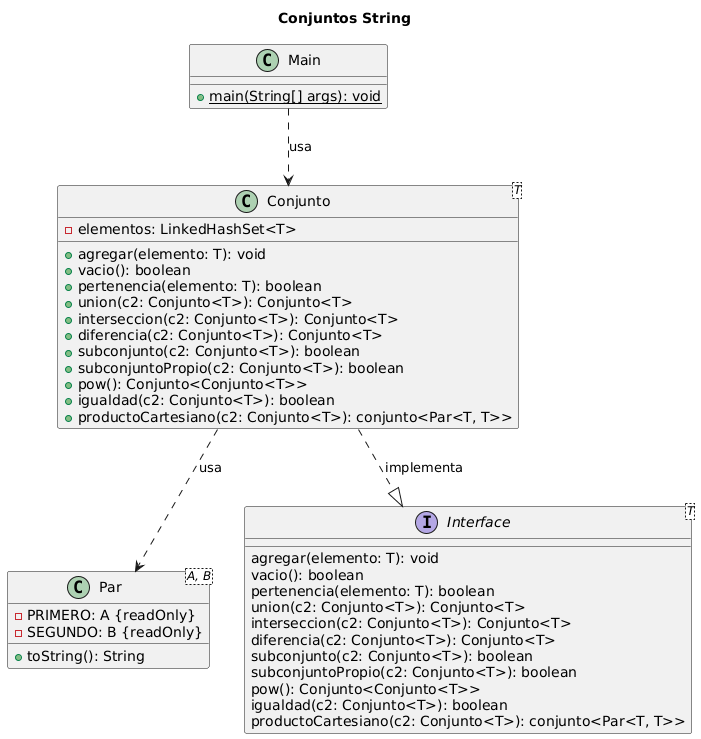
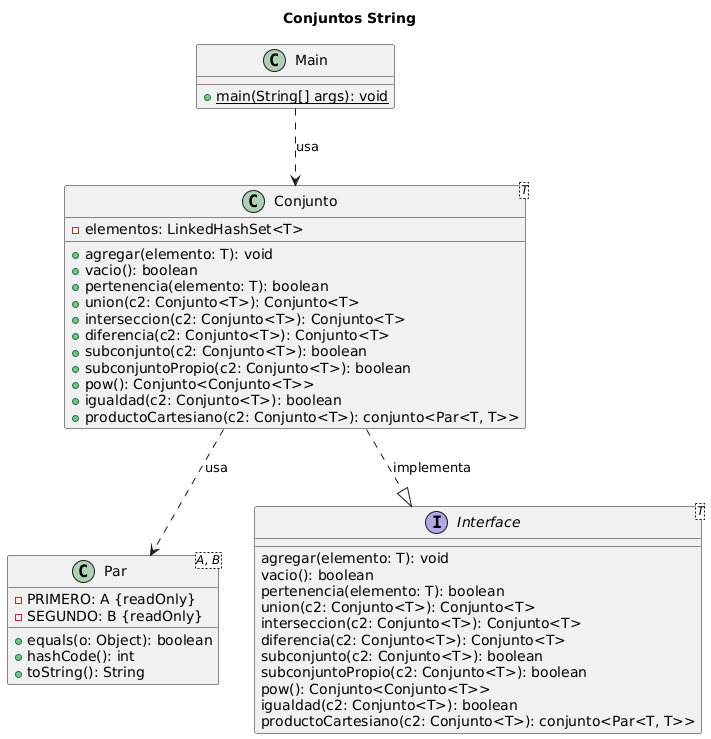
Add files via upload

diff --git a/Par.java b/Par.java
@@ -4,6 +4,8 @@ PROYECTO: Conjuntos
 FECHA: 30 de octubre del 2025
 FUNCIÓN:Implementar con métodos las operaciones entre conjuntos.
  */
+
+import java.util.Objects;
 public class Par<A, B>{
     private final A PRIMERO;
     private final B SEGUNDO;
@@ -12,6 +14,20 @@ public class Par<A, B>{
         this.PRIMERO = primero;
         this.SEGUNDO = segundo;
     }
+
+    @Override
+    public boolean equals(Object o){//Dos pares son iguales si su primer elemento y su segundo elemento son iguales.
+        if (this == o) return true;//Decidir si dos objetos son “iguales en contenido”, no en memoria.
+        if (o == null || getClass() != o.getClass()) return false;//Si son de la misma clase
+
+        Par<?, ?> par = (Par<?, ?>) o;
+        return Objects.equals(PRIMERO, par.PRIMERO)
+        && Objects.equals(SEGUNDO, par.SEGUNDO);
+    }
+
+    @Override
+    public int hashCode()
+        {return Objects.hash(PRIMERO, SEGUNDO);}//Si dos objetos son iguales según equals(), DEBEN tener el mismo hashCode()
 
     @Override
     public String toString(){
